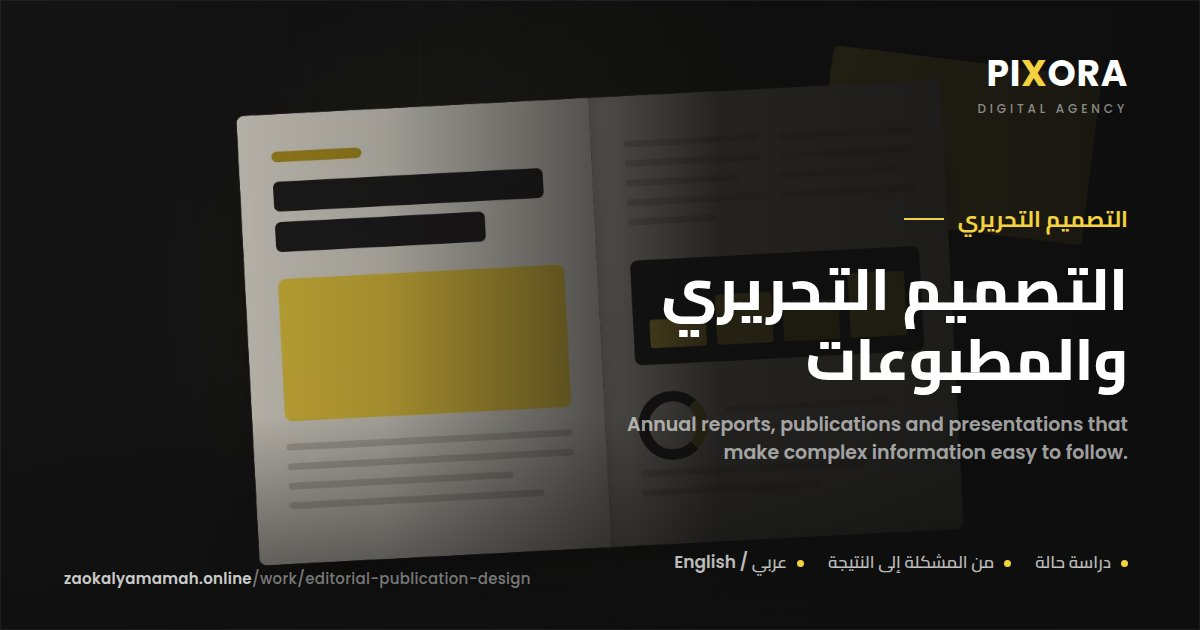
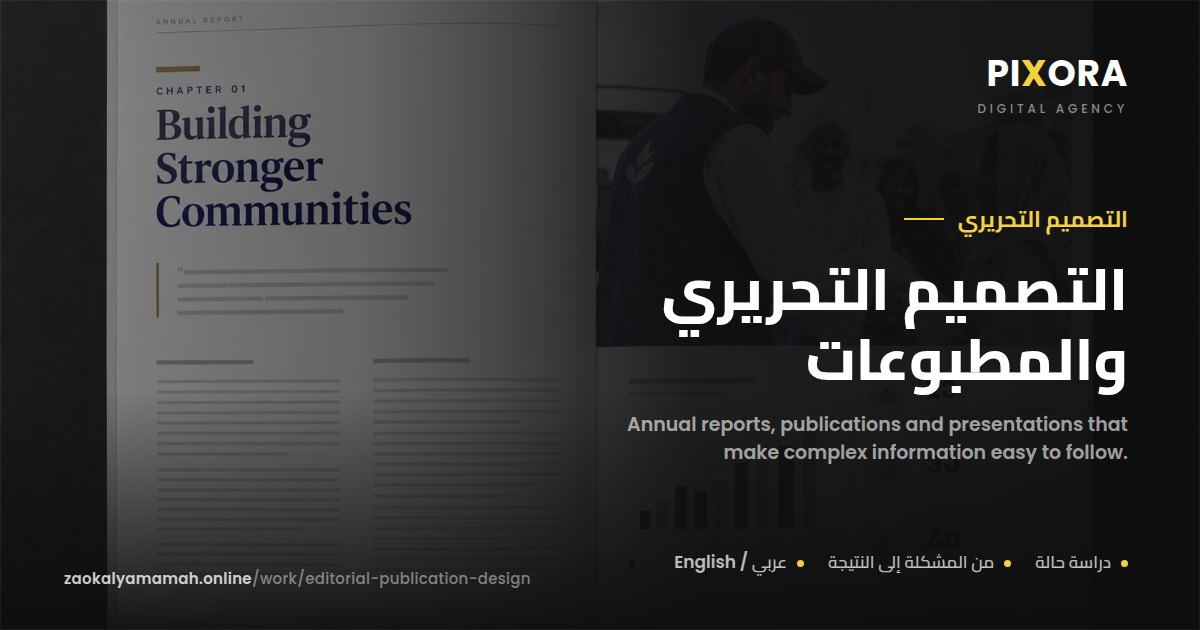
Editorial & publication design: the real work in place of its placeholders
- Four images (report spread, presentation, cover, brochure) encoded with
  images.py work; the spread is now the study's card and link preview.
- images.py work removes a study's drawn cover once its first piece is real,
  and render.mjs fills the /work preview's prints from the built hub's
  covers, so neither needs a hand edit per study.

Claude-Session: https://claude.ai/code/session_01NJL9QvcoEBBfKSiRxG5s9B

diff --git a/tools/share-cards/work.html b/tools/share-cards/work.html
@@ -1,5 +1,5 @@
 <!doctype html><html lang="ar" dir="rtl"><head><meta charset="utf-8"><link rel="stylesheet" href="base.css"><style>
-/* The case studies hub: four of the study covers, as prints. */
+/* The case studies hub: four of the study covers, as prints (render.mjs puts in the covers the built hub shows). */
 .p1{--x:30px;--y:40px;--w:330px;--r:-3deg;--z:1}
 .p2{--x:200px;--y:150px;--w:360px;--r:2.5deg;--z:3}
 .p3{--x:20px;--y:260px;--w:250px;--r:-4deg;--z:2}
@@ -8,7 +8,7 @@
 <div class="prints">
  <div class="print p1"><img src="../../overlay/assets/case-brand-identity-systems-identity-800.webp"></div>
  <div class="print p2"><img src="../../overlay/assets/case-information-design-800.webp"></div>
- <div class="print p3"><img src="../../overlay/assets/case-editorial-publication-design-800.webp"></div>
+ <div class="print p3"><img src="../../overlay/assets/case-editorial-publication-design-spread-800.webp"></div>
  <div class="print p4"><img src="../../overlay/assets/case-talk-about-sudan-800.webp"></div>
 </div>
 <div class="text">

diff --git a/tools/images.py b/tools/images.py
@@ -102,6 +102,13 @@ def work(folder):
                  f"scale={width}:{height}:force_original_aspect_ratio=increase:flags=lanczos,crop={width}:{height}", 82)
         found += 1
         print(f"overlay/assets/case-{src.stem}.webp (+ -800)")
+        # The study's first piece is its cover now: the drawn one goes.
+        slug = next(s for s in STORIES if src.stem.startswith(s + "-"))
+        if src.stem == f"{slug}-{STORIES[slug]['hero'][0]}":
+            for old in (f"case-{slug}.webp", f"case-{slug}-800.webp"):
+                if (OUT / old).exists():
+                    (OUT / old).unlink()
+                    print(f"removed overlay/assets/{old} (the drawn cover)")
     if not found:
         sys.exit(f"work: no images named <slug>-<piece> in {folder}")
 
